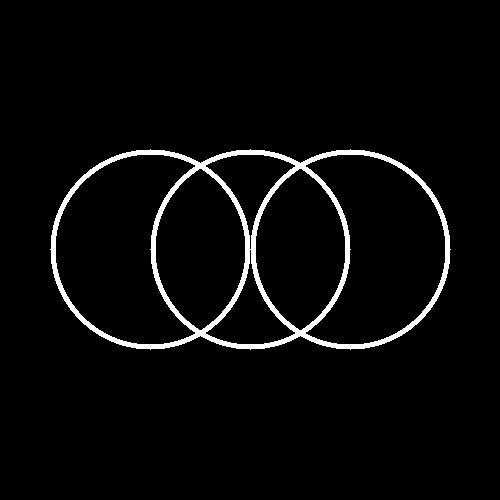
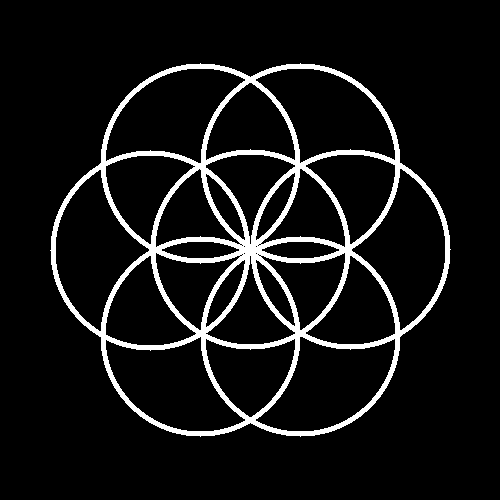
rosace

diff --git a/src/main.cpp b/src/main.cpp
@@ -177,9 +177,9 @@ void disk(sil::Image& image, int x_centre, int y_centre)
     }
 }
 
-void circle(sil::Image& image, int x_centre, int y_centre, int rayon)
+void circle(sil::Image& image, int x_centre, int y_centre)
 {
-    // int rayon {100};
+    int rayon {100};
     int thickness {5};
     // int x_centre {image.width()/2};
     // int y_centre {image.width()/2};
@@ -199,10 +199,23 @@ void circle(sil::Image& image, int x_centre, int y_centre, int rayon)
 
 void rosace(sil::Image& image)
 {
-    circle(image, 250, 250, 100);
-    circle(image, 350, 250, 100);
-    circle(image, 150, 250, 100);
+    float x_centre {image.width()/ 2.0f};
+    float y_centre {image.height()/ 2.0f};
+    int rayon {100};
+    const float pi { 3.14159265359f};
 
+    circle(image, x_centre, y_centre); // cercle central
+
+    // création des 6 cercles autour
+    for (int i {0}; i < 6; i++)
+    {
+        float angle {(pi/6 * 2) * i};
+
+        float x {x_centre + rayon * std::cos(angle)};
+        float y {y_centre + rayon * std::sin(angle)};
+
+        circle(image, x, y);
+    }
 }
 
 
@@ -271,7 +284,7 @@ int main()
     {
         /* CERCLE */
         // sil::Image image{500, 500};
-        // circle(image, 250, 250, 100);
+        // circle(image, 250, 250);
         // image.save("output/circle.png");
     }
     {
